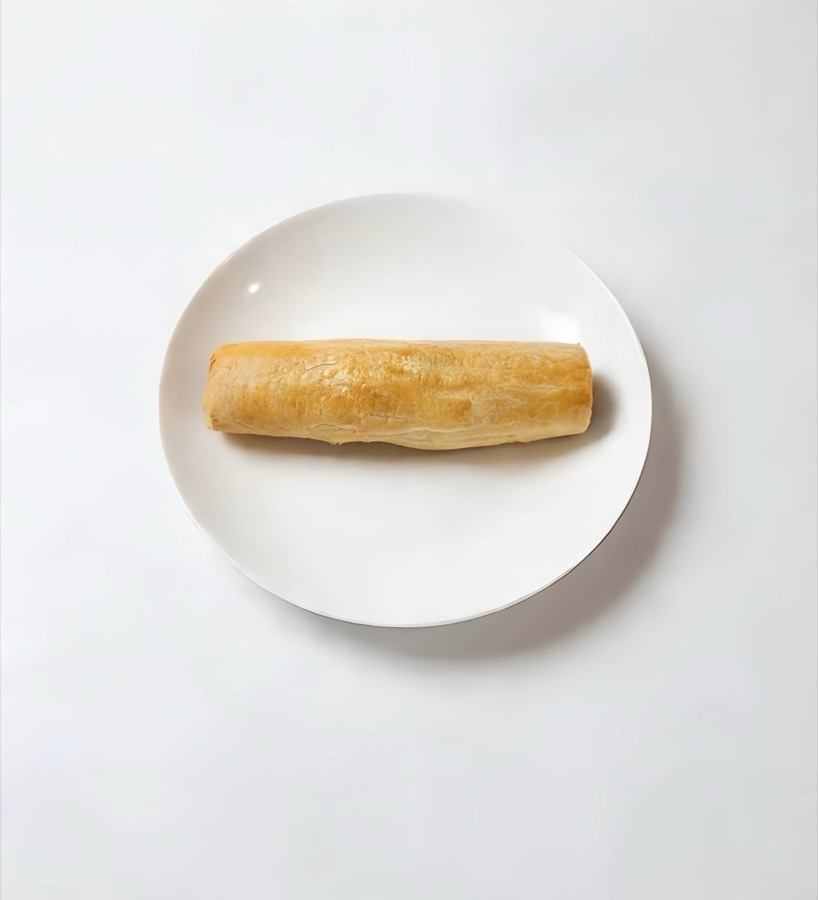
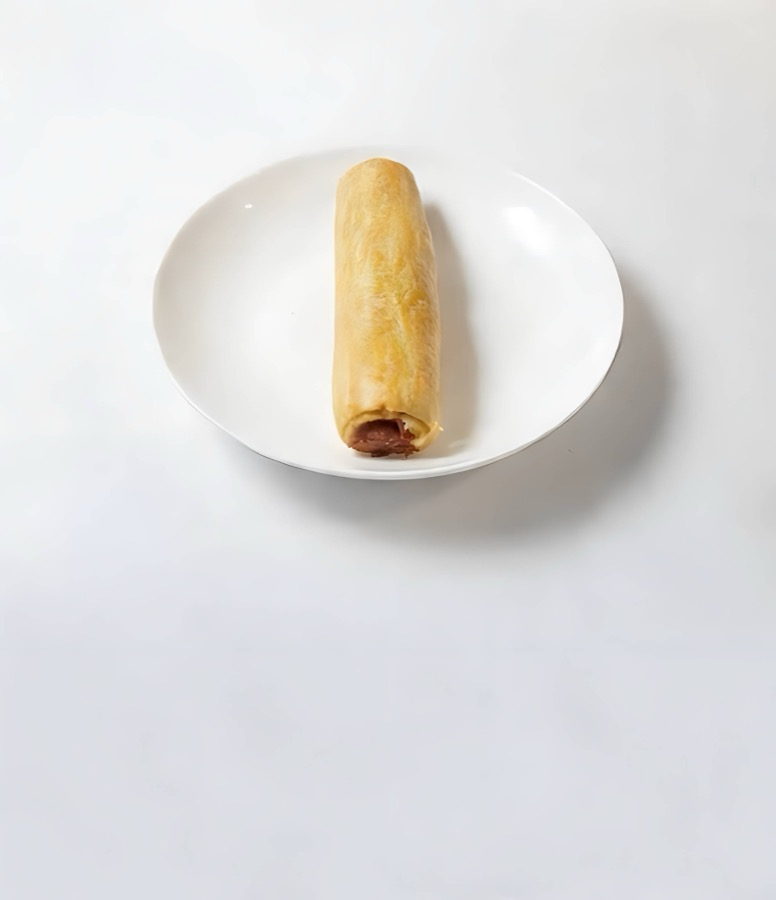
Correct the roll photos and four prices from the manager
The beef roll and frank roll photos were on each other's cards — the
one with the meat filling showing belongs to Beef Roll. Swapped the two
files so the filenames still describe what is in them, which leaves the
imports alone.

Prices per the manager: Beef Roll N500 (and Frank Roll takes the N600
it was swapped with), Eba N500, Pounded Yam N1,500, Semo N1,000. The
Semo figure also clears up the N4,500 that looked wrong next to Semo
with Efo-Riro at N2,000.

Changed region(s): [[0.1856, 0.1556, 0.8969, 0.7778], [0.9897, 0.84, 1.0, 1.0], [0.9897, 0.7778, 1.0, 0.8089]]

diff --git a/src/data/menu.ts b/src/data/menu.ts
@@ -71,8 +71,8 @@ export const MENU: MenuSection[] = [
       { name: 'Ring Doughnut', price: '₦500', image: ringDoughnut },
       { name: 'Meat Pie', price: '₦1,000', image: meatPie },
       { name: 'Chicken Pie', price: '₦1,000', image: chickenPie },
-      { name: 'Beef Roll', price: '₦600', image: beefRoll },
-      { name: 'Frank Roll', price: '₦500', image: frankRoll },
+      { name: 'Beef Roll', price: '₦500', image: beefRoll },
+      { name: 'Frank Roll', price: '₦600', image: frankRoll },
       { name: 'Chocolate Doughnut', price: '₦1,000', image: chocolateDoughnut },
       { name: 'Jam Doughnut', price: '₦500', image: jamDoughnut },
       { name: 'Milky Doughnut', price: '₦500', image: milkyDoughnut },
@@ -87,10 +87,10 @@ export const MENU: MenuSection[] = [
       { name: 'Jollof Rice', price: '₦1,000', image: jollofRice },
       { name: 'Fried Rice', price: '₦1,000', image: friedRice },
       { name: 'White Rice & Beans', price: '₦1,000', image: whiteRiceBeans },
-      { name: 'Eba', price: '₦1,000', image: eba },
-      { name: 'Pounded Yam', price: '₦1,000', image: poundedYam },
+      { name: 'Eba', price: '₦500', image: eba },
+      { name: 'Pounded Yam', price: '₦1,500', image: poundedYam },
       { name: 'Pounded Yam with Soup', price: '₦2,500', image: poundedYamSoup },
-      { name: 'Semo', price: '₦4,500', image: semo },
+      { name: 'Semo', price: '₦1,000', image: semo },
       { name: 'Semo with Efo-Riro', price: '₦2,000', image: semoEfoRiro },
       { name: 'Semo with Egusi Soup', price: '₦2,000', image: semoEgusi },
       { name: 'Yam Pottage', price: '₦1,500', image: yamPottage },
